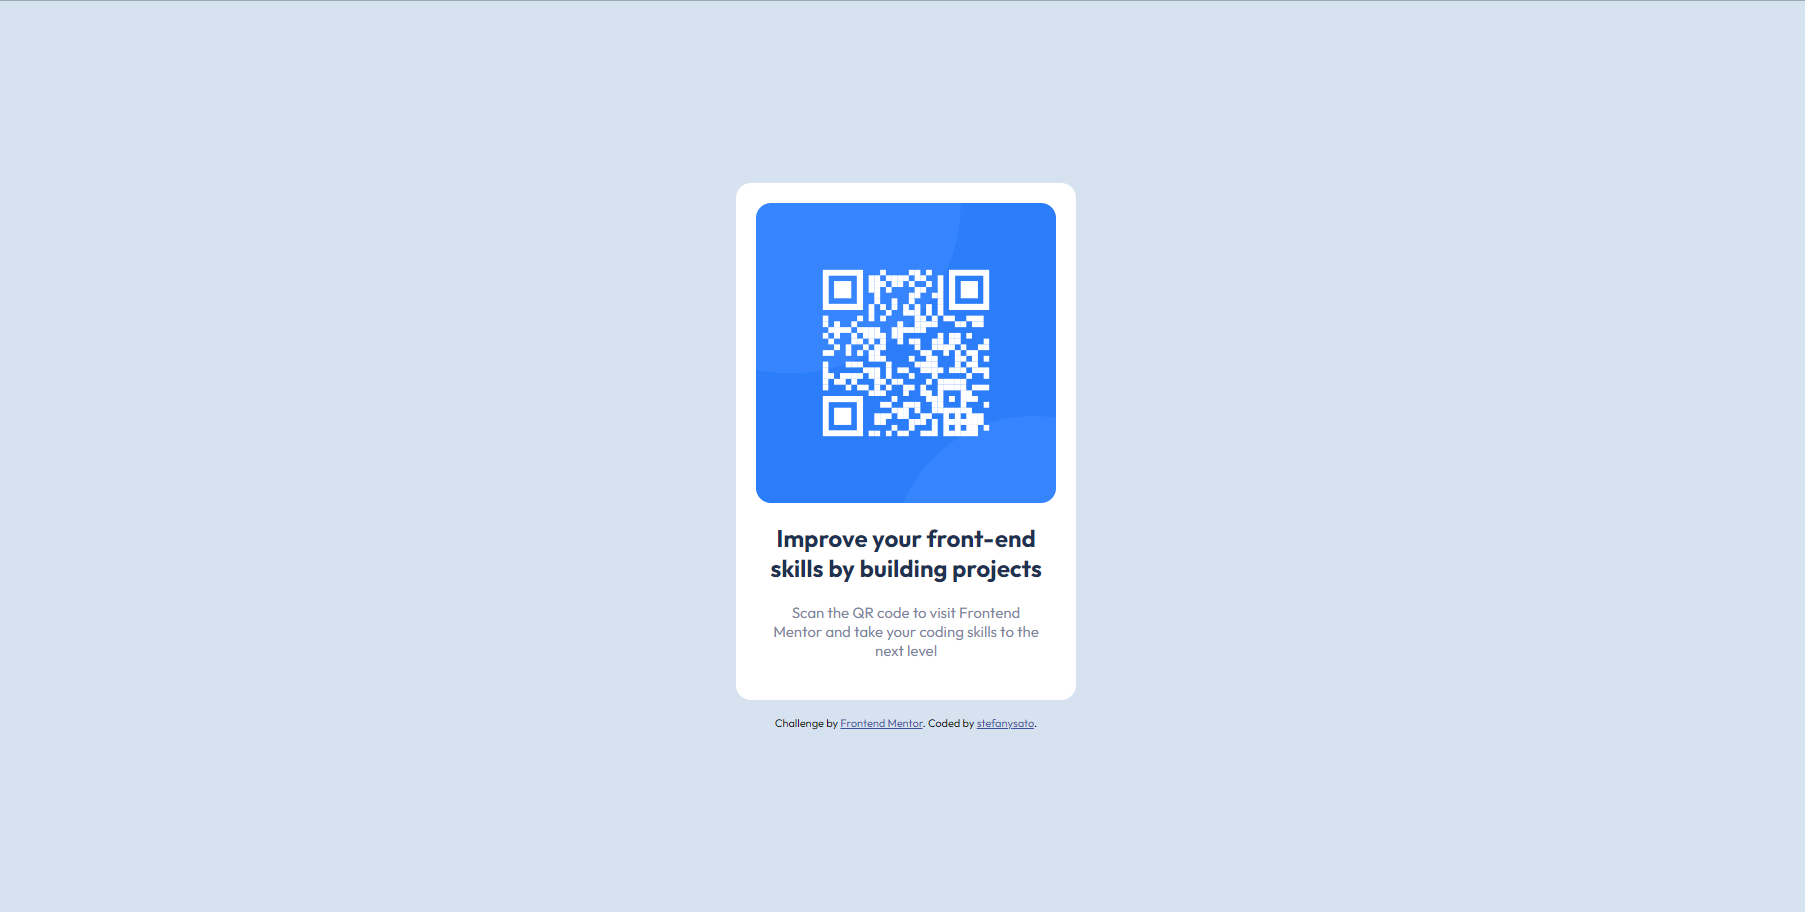
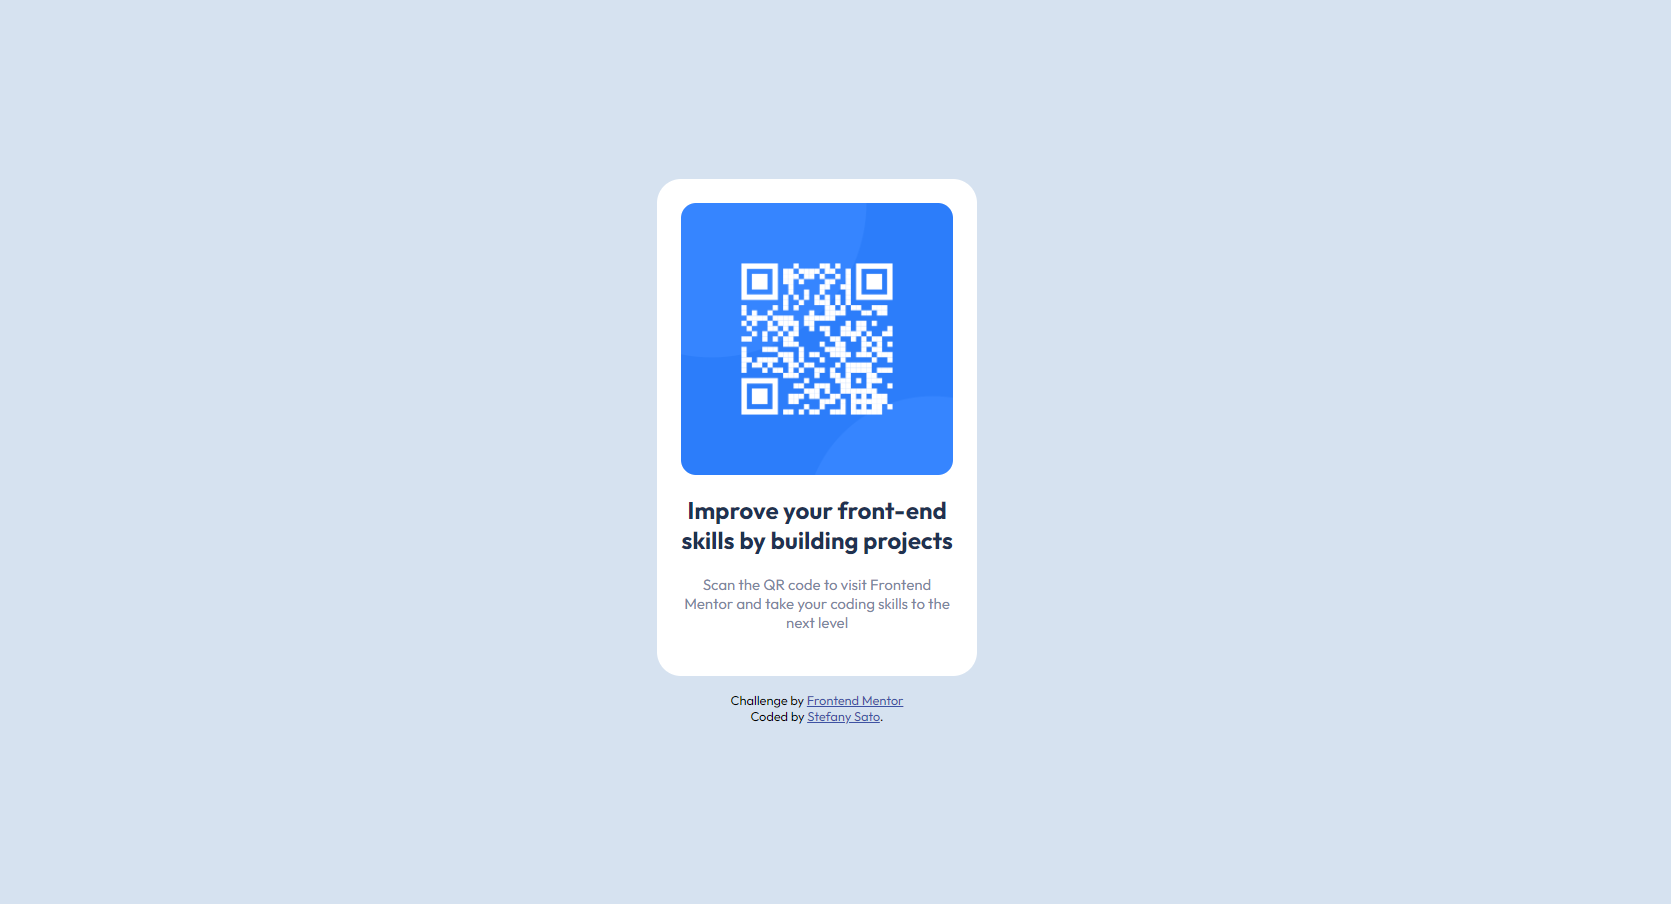
minor changes to index.html and style.css

Changed region(s): [[0.3734, 0.1858, 0.6224, 0.8053]]

diff --git a/index.html b/index.html
@@ -2,7 +2,7 @@
 <html lang="en">
 <head>
   <meta charset="UTF-8">
-  <meta name="viewport" content="width=device-width, initial-scale=1.0"> <!-- displays site properly based on user's device -->
+  <meta name="viewport" content="width=device-width, initial-scale=1.0">
 
   <link rel="icon" type="image/png" sizes="32x32" href="./images/favicon-32x32.png">
   
@@ -16,20 +16,20 @@
 </head>
 <body>
 
-  <main class="box">
+  <main class="card">
     <div class="content">
-      <img src="./images/image-qr-code.png" alt="qr code" class="qr-code">
-      <h2>Improve your front-end skills by building projects</h1>
+      <img src="./images/image-qr-code.png" class="qr-code" alt="QR Code leading to website 'frontendmentor.io'">
+      <h1>Improve your front-end skills by building projects</h1>
       <p>Scan the QR code to visit Frontend Mentor and take your coding skills to the next level</p>
     </div>
-  <footer>
-    <div class="attribution">
-      Challenge by <a href="https://www.frontendmentor.io?ref=challenge" target="_blank">Frontend Mentor</a>. 
-      Coded by <a href="https://www.frontendmentor.io/profile/stefanysato" target="_blank">stefanysato</a>.
-    </div>
-  </footer>  
   </main>
 
+  <footer>
+    <div class="attribution">
+      <p>Challenge by <a href="https://www.frontendmentor.io?ref=challenge" target="_blank">Frontend Mentor</a></p>
+      <p>Coded by <a href="https://www.frontendmentor.io/profile/stefanysato" target="_blank">Stefany Sato</a>.</p>
+    </div>
+  </footer>
 
 </body>
 </html>

diff --git a/style.css b/style.css
@@ -7,19 +7,18 @@
 body {
   background-color: hsl(212, 45%, 89%);
   font-family: 'Outfit', sans-serif;
-}
-
-.box {
-  height: 100vh;
+  padding: 1rem;
+  min-height: 100vh;
   display: flex;
   align-items: center;
   justify-content: center;
   flex-direction: column;
+  gap: 1rem;
+  text-align: center;
 }
 
 .attribution {
-  margin-top: 1rem;
-  font-size: 11px;
+  font-size: .8rem;
   text-align: center;
 }
 
@@ -31,27 +30,36 @@ body {
   color: hsl(218, 44%, 22%);
 }
 
+.card {
+  max-width: 20rem;
+}
+
+.card img {
+  display: block;
+  max-width: 100%;
+}
+
 .content {
-  width: 340px;
-  padding: 20px;
+  /* width: 340px; */
+  padding: 1.5rem;
   background-color: #fff;
   display: flex;
   flex-direction: column;
-  text-align: center;
   align-items: center;
   justify-content: center;
-  border-radius: 15px;
+  border-radius: 1.5rem;
 }
 
 .qr-code {
-  width: 300px;
+  /* width: 300px; */
   border-radius: 15px;
 }
 
-.content h2 {
+.content h1 {
   margin-top: 20px;
   width: 300px;
   color: hsl(218, 44%, 22%);
+  font-size: 1.5rem;
 }
 
 .content p {
